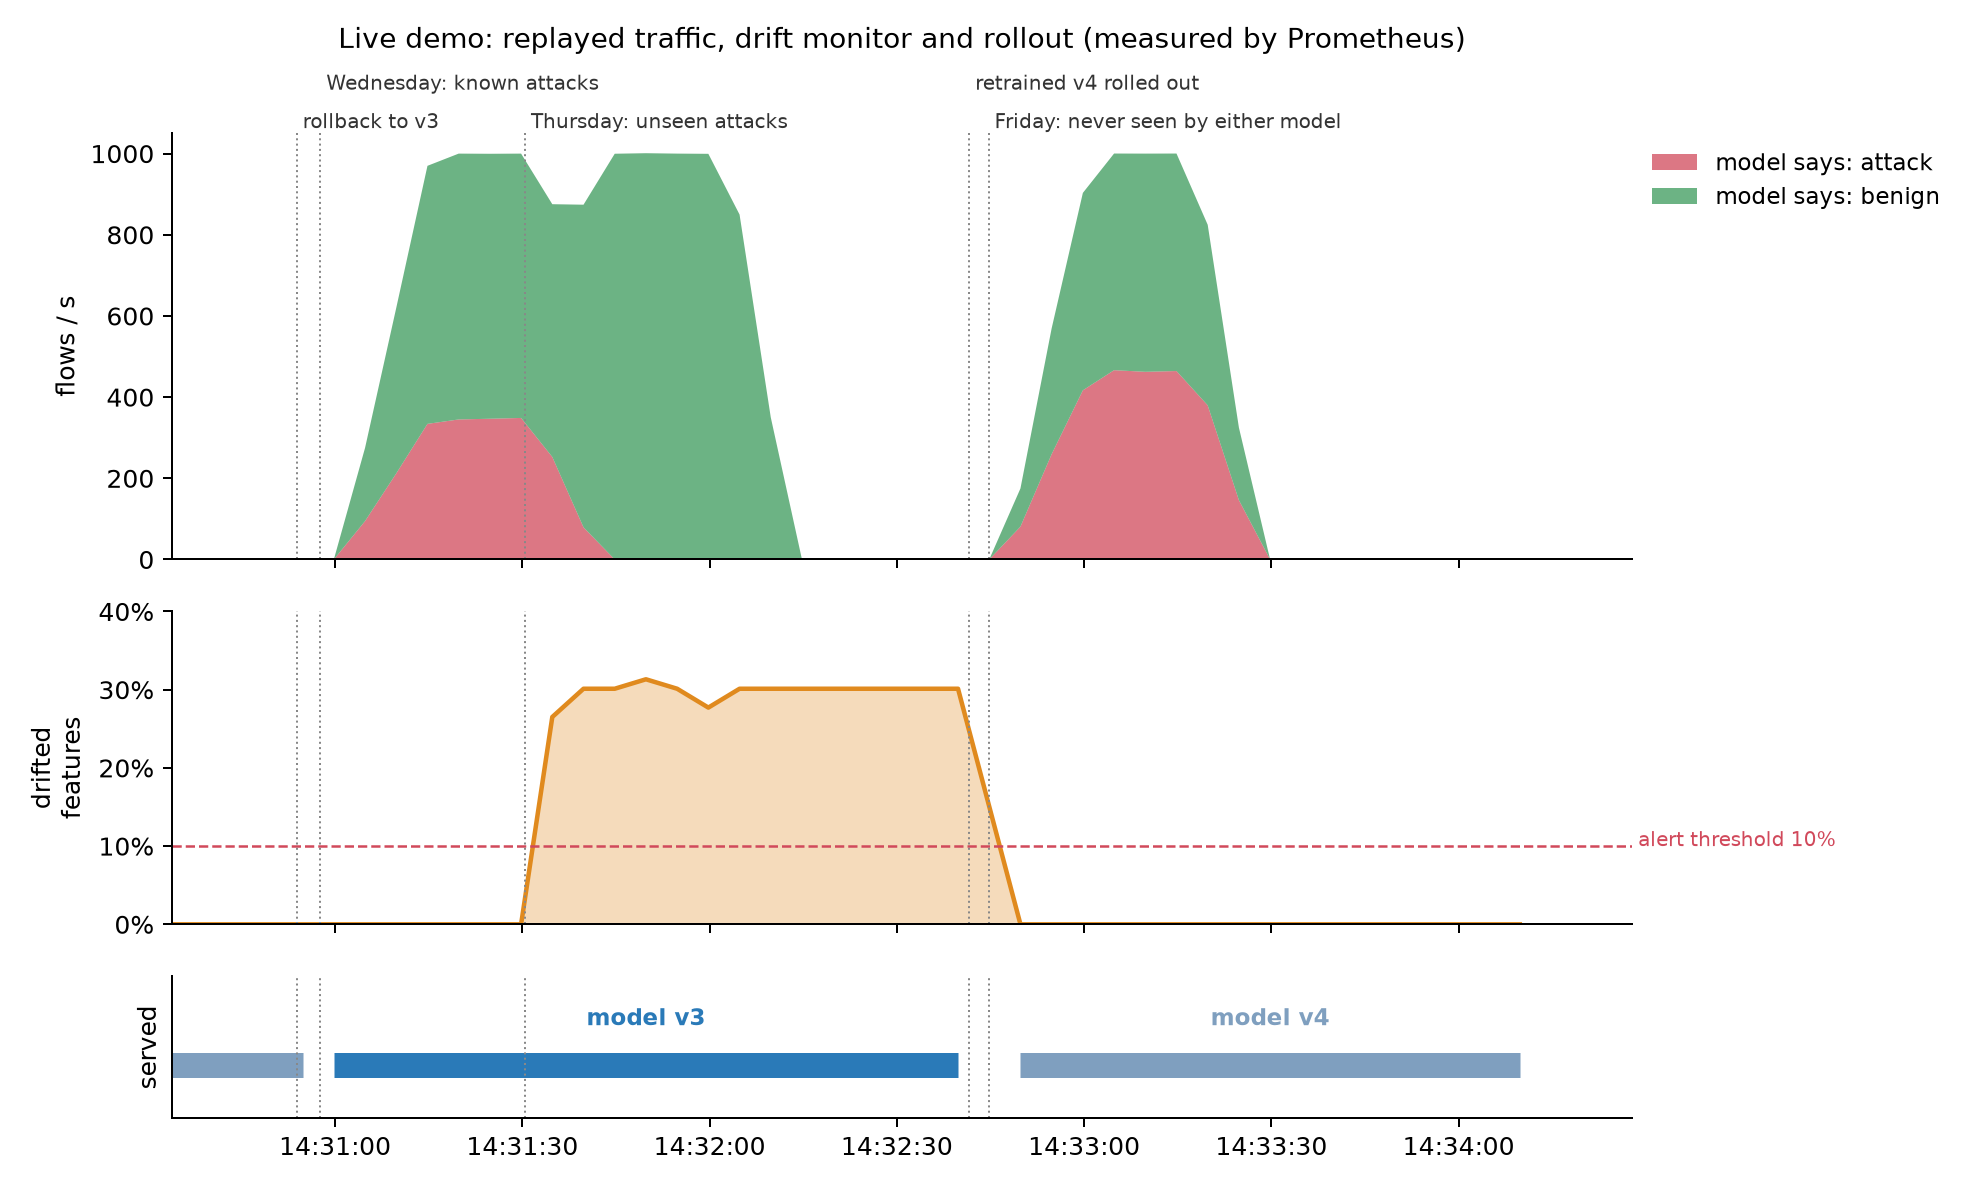
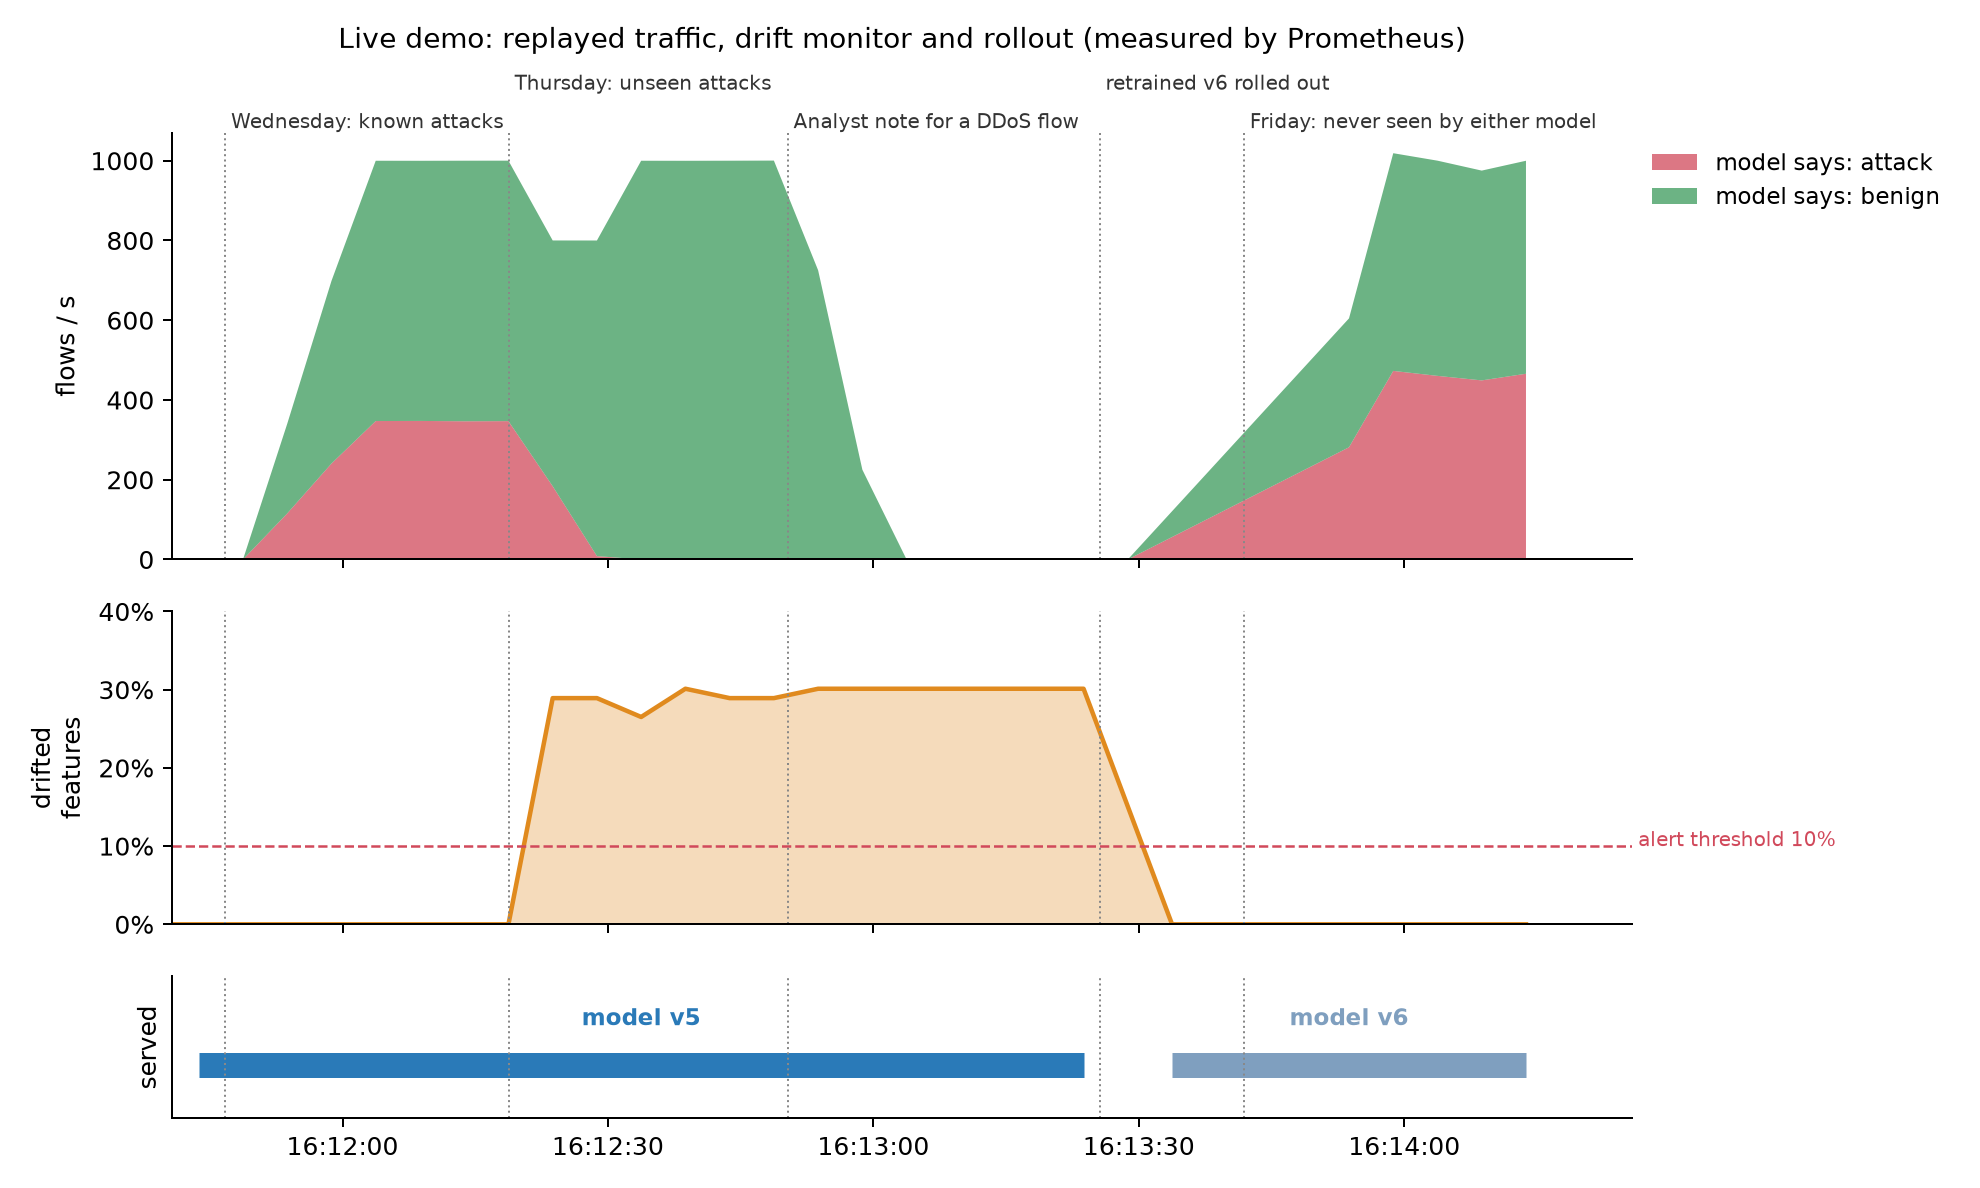
Demo: analyst note for a DDoS flow during drift, LLM warm-up, cleaner timeline
The type model calls the DDoS flow 'DoS Hulk' with 99.9 % confidence; the
LLM note warns that the drift monitor is firing and the type may be wrong.
MLflow server runs with 2 workers to leave memory for the local LLM (one
note timed out under memory pressure and correctly fell back to the
template).

diff --git a/src/ids/demo.py b/src/ids/demo.py
@@ -3,6 +3,7 @@
 1. Roll back: the old model (trained Monday-Wednesday) is @champion, the API restarts with it.
 2. Wednesday traffic: known attacks are caught, the drift monitor stays calm.
 3. Thursday traffic: unseen attacks - no alarms at all, but the drift monitor fires (IdsDataDrift).
+   A Friday DDoS flow gets an analyst note: the type model calls it "DoS", the note warns about drift.
 4. Rollout: the retrained model (Monday-Thursday) becomes @champion, the API restarts with it.
 5. Friday traffic: attacks the new model has never seen either are caught again.
 
@@ -21,7 +22,10 @@ import time
 import urllib.request
 from pathlib import Path
 
-from ids import replay, timeline
+import pandas as pd
+
+from ids import replay, schema, timeline
+from ids.config import INTERIM_DIR
 from ids.registry import set_champion
 
 SCENES_FILE = Path("docs/images/live_demo_scenes.json")
@@ -34,11 +38,37 @@ def _rollout(version: str) -> None:
         try:
             with urllib.request.urlopen(f"{replay.API_URL}/model", timeout=2) as response:
                 if json.load(response)["version"] == version:
+                    time.sleep(12)  # let Prometheus scrape the fresh API before the next scene
                     return
         except OSError:
             pass
         time.sleep(1)
     sys.exit(f"API did not come back with model version {version}")
+
+
+def _ddos_flow() -> dict:
+    flows = pd.read_parquet(INTERIM_DIR / "friday.parquet")
+    flow = flows[flows[schema.LABEL] == "DDoS"].sample(1, random_state=1)[schema.FEATURES].astype(float)
+    return flow.iloc[0].to_dict()
+
+
+def _explain(flow: dict) -> dict:
+    request = urllib.request.Request(
+        f"{replay.API_URL}/explain",
+        data=json.dumps(flow).encode(),
+        headers={"Content-Type": "application/json"},
+    )
+    with urllib.request.urlopen(request, timeout=180) as response:
+        return json.load(response)
+
+
+def _explain_ddos() -> None:
+    """The analyst note for one DDoS flow while the drift monitor is firing."""
+    answer = _explain(_ddos_flow())
+    p = answer["prediction"]
+    print(f"true type: DDoS -> model: {p['attack_type']} ({p['family']}, {p['type_confidence']:.1%} sure), "
+          f"drift warning: {answer['drift_warning']}, note from: {answer['source']}")  # fmt: skip
+    print(f"note: {answer['note']}")
 
 
 def _replay(day: str, flows: int, rate: int) -> None:
@@ -62,12 +92,16 @@ def main() -> None:
 
     scene(f"rollback to v{args.before}")
     _rollout(args.before)
+    print("warming up the LLM (loads the model into memory) ...")
+    print(f"  first note from: {_explain(_ddos_flow())['source']}")
     scene("Wednesday: known attacks")
     _replay("wednesday", args.flows, args.rate)
     scene("Thursday: unseen attacks")
     _replay("thursday", args.flows, args.rate)
-    print("waiting 40 s so Prometheus can fire the IdsDataDrift alert ...")
-    time.sleep(40)
+    scene("Analyst note for a DDoS flow")
+    _explain_ddos()
+    print("waiting for Prometheus to fire the IdsDataDrift alert ...")
+    time.sleep(30)
     scene(f"retrained v{args.after} rolled out")
     _rollout(args.after)
     scene("Friday: never seen by either model")

diff --git a/src/ids/timeline.py b/src/ids/timeline.py
@@ -54,6 +54,11 @@ def _segments(result: dict, gap: float = 15) -> list[list[datetime]]:
     return [[datetime.fromtimestamp(ts) for ts in seg] for seg in segments]
 
 
+def _visible_from(scenes_file: Path) -> float:
+    scenes = json.loads(scenes_file.read_text(encoding="utf-8"))
+    return scenes[1]["time"] - 6 if len(scenes) > 2 else scenes[0]["time"]
+
+
 def main() -> None:
     parser = argparse.ArgumentParser(description=__doc__.split("\n")[0])
     parser.add_argument("--minutes", type=int, default=20)
@@ -97,6 +102,8 @@ def main() -> None:
         label = "baked-in model" if version == "file" else f"model v{version}"
         colour = next(colours, MODEL)
         for x in _segments(result):  # a version can be served twice (rollback): one bar per period
+            if args.scenes:
+                x = [ts for ts in x if ts.timestamp() >= _visible_from(args.scenes)] or x
             ax_model.plot(x, [0] * len(x), color=colour, linewidth=10, solid_capstyle="butt")
             ax_model.text(x[len(x) // 2], 0.45, label, ha="center", fontsize=9, color=colour, weight="bold",
                           clip_on=True)  # fmt: skip
@@ -106,17 +113,20 @@ def main() -> None:
     ax_model.xaxis.set_major_formatter(mdates.DateFormatter("%H:%M:%S"))
 
     if args.scenes:
-        scenes = json.loads(args.scenes.read_text(encoding="utf-8"))
-        for i, scene in enumerate(scenes[:-1]):
+        scenes = json.loads(args.scenes.read_text(encoding="utf-8"))[:-1]  # last entry marks the end
+        # Start shortly before the first traffic scene: before that the API restarts (rollback) and still
+        # shows the state of whatever ran earlier.
+        left = _visible_from(args.scenes)
+        visible = [s for s in scenes if s["time"] >= left]
+        for i, scene in enumerate(visible):
             when = datetime.fromtimestamp(scene["time"])
             for ax in (ax_flows, ax_drift, ax_model):
                 ax.axvline(when, color="#888888", linewidth=0.8, linestyle=":")
             y = 1.0 + 0.09 * (i % 2)  # alternate heights so neighbouring labels do not overlap
             ax_flows.text(when, y, " " + scene["label"], transform=ax_flows.get_xaxis_transform(), fontsize=8,
                           va="bottom", color="#333333")  # fmt: skip
-        start_x = datetime.fromtimestamp(scenes[0]["time"] - 20)
         for ax in (ax_flows, ax_drift, ax_model):
-            ax.set_xlim(left=start_x)
+            ax.set_xlim(left=datetime.fromtimestamp(left))
 
     for ax in (ax_flows, ax_drift, ax_model):
         ax.spines[["top", "right"]].set_visible(False)
